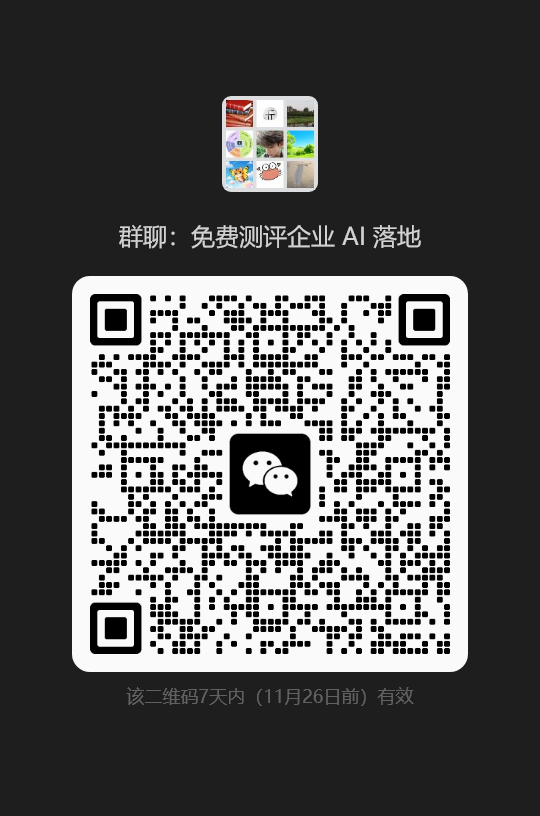
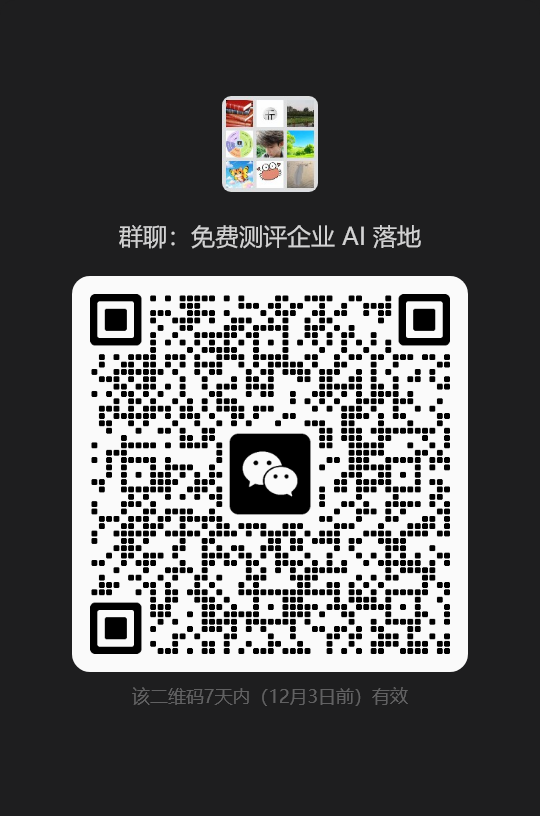
docs(release): document fullscreen CLI and refresh WeChat QR

diff --git a/docs-site/docs/.vitepress/config.js b/docs-site/docs/.vitepress/config.js
@@ -59,8 +59,8 @@ export default defineConfig({
           { text: "ChainlessChain系统", link: "/chainlesschain/overview" },
           { text: "厂家管理系统", link: "/manufacturer/overview" },
           {
-            text: "当前安装与升级（11-25）",
-            link: "/chainlesschain/cli-ide-update-2026-11-25-163",
+            text: "当前安装与升级（11-26）",
+            link: "/chainlesschain/cli-ide-update-2026-11-26-164",
           },
         ],
       },

diff --git a/docs-site-design/docs/.vitepress/config.js b/docs-site-design/docs/.vitepress/config.js
@@ -137,6 +137,10 @@ export default defineConfig({
             link: "/modules/110-agent-platform-release-boundaries",
           },
           {
+            text: "CLI .164 / 全屏终端、模型切换与授权",
+            link: "/release-runtime-update-2026-11-26-164",
+          },
+          {
             text: "CLI .163 / 读取恢复、压缩与轮次隔离",
             link: "/release-runtime-update-2026-11-25-163",
           },

diff --git a/docs-site/docs/chainlesschain/installation.md b/docs-site/docs/chainlesschain/installation.md
@@ -1,6 +1,6 @@
 # ChainlessChain 安装部署
 
-> CLI **0.166.163** 与 Open VSX **0.37.198** 已公开。最后已核验的客户端 **v5.0.3.145** 的旧安装包下载源暂不可用。 [IDE 配对与商店状态](./cli-ide-update-2026-11-25-163)
+> CLI **0.166.164** 与 Open VSX **0.37.199** 已公开。JetBrains **0.4.214** 已上传，等待 Marketplace 审核。当前已核验的公开版为 **0.4.213**，配套 CLI **0.166.163**。 客户端 **v5.0.3.145** 的旧安装包下载源暂不可用。 [IDE 配对与商店状态](./cli-ide-update-2026-11-26-164)
 
 > **2026-11-09 历史核对**：当时公开组合为 CLI **0.166.145**、Open VSX **0.37.181**、JetBrains **0.4.198**，两款 IDE 推荐 CLI .145；产品 **v5.0.3.145** 独立发行。以下 .145 文件名、系统要求与旧门禁记录保留历史范围，不证明当前旧下载源仍可用。
 
@@ -8,7 +8,7 @@
 
 先选择需要的入口：终端 Agent 安装 npm CLI；浏览器工作台由 `cc ui` 启动；IDE 插件另外安装并连接 CLI。桌面与移动客户端需要独立安装包，当前旧下载源不可用，可使用已有且已核验的本地资产或按源码开发说明构建。仅使用 CLI 和云端模型时，不需要先部署整套 Docker 后端。
 
-[系统概述](./overview) · [本轮升级指南](./cli-ide-update-2026-11-25-163) · [配置说明](./configuration)
+[系统概述](./overview) · [本轮升级指南](./cli-ide-update-2026-11-26-164) · [配置说明](./configuration)
 
 ## 核心特性
 
@@ -49,11 +49,11 @@ Android / iOS 要求按历史产品 .145 的发行源码核对，不能从源码
 ```bash
 node --version
 npm --version
-npm i -g chainlesschain@0.166.163 --registry https://registry.npmjs.org
+npm i -g chainlesschain@0.166.164 --registry https://registry.npmjs.org
 cc --version
 ```
 
-安装后应显示 `0.166.163`。若 `cc` 指向系统 C 编译器或另一个工具，使用完整命令 `chainlesschain --version`，并核对 npm 全局可执行目录是否在当前终端的 PATH 中。
+安装后应显示 `0.166.164`。若 `cc` 指向系统 C 编译器或另一个工具，使用完整命令 `chainlesschain --version`，并核对 npm 全局可执行目录是否在当前终端的 PATH 中。
 
 ### 2. 初始化 CLI
 
@@ -111,10 +111,10 @@ sudo apt install ./chainlesschain-desktop-vue_5.0.3-alpha.145_amd64.deb
 
 | IDE                | 配套插件版本          | 商店入口                                                                                      |
 | ------------------ | --------------------- | --------------------------------------------------------------------------------------------- |
-| VS Code 兼容编辑器 | Open VSX **0.37.198** | [Open VSX](https://open-vsx.org/extension/chainlesschain/chainlesschain-ide)                  |
-| JetBrains          | **0.4.212**           | [JetBrains Marketplace](https://plugins.jetbrains.com/plugin/32208-chainlesschain-ide-bridge) |
+| VS Code 兼容编辑器 | Open VSX **0.37.199** | [Open VSX](https://open-vsx.org/extension/chainlesschain/chainlesschain-ide)                  |
+| JetBrains          | **0.4.213**           | [JetBrains Marketplace](https://plugins.jetbrains.com/plugin/32208-chainlesschain-ide-bridge) |
 
-Open VSX **0.37.198** 推荐 CLI **0.166.163**，已公开的 JetBrains **0.4.212** 推荐 CLI **0.166.162**。升级后重启宿主，通过 Doctor 核对 CLI 路径。 [最新商店状态](./cli-ide-update-2026-11-25-163) · [IDE 指南](./ide-plugin)
+Open VSX **0.37.199** 推荐 CLI **0.166.164**。JetBrains **0.4.214** 已上传，等待 Marketplace 审核。当前已核验的公开版为 **0.4.213**，配套 CLI **0.166.163**。 升级后重启宿主，通过 Doctor 核对 CLI 路径。 [最新商店状态](./cli-ide-update-2026-11-26-164) · [IDE 指南](./ide-plugin)
 
 ## 移动端安装
 
@@ -176,7 +176,7 @@ CLI 默认配置在 `~/.chainlesschain/config.json`；桌面端还存在 Electro
 ### 更新到本页核对的公开组合
 
 ```bash
-npm i -g chainlesschain@0.166.163 --registry https://registry.npmjs.org
+npm i -g chainlesschain@0.166.164 --registry https://registry.npmjs.org
 chainlesschain --version
 chainlesschain doctor
 ```

diff --git a/docs-site/docs/chainlesschain/cli-ide-update-2026-11-26-164.md b/docs-site/docs/chainlesschain/cli-ide-update-2026-11-26-164.md
@@ -1,0 +1,59 @@
+# CLI 0.166.164 与 IDE 升级
+
+## 概述
+
+CLI **0.166.164** 已通过 GitHub Actions OIDC 发布到 npm。Open VSX **0.37.199** 已公开，推荐此 CLI 版本。JetBrains **0.4.214** 已上传并等待 Marketplace 审核，当前已核验的公开版为 **0.4.213**，配套 CLI **0.166.163**。 [npm 发布](https://github.com/longfa/chainlesschain/actions/runs/45781019483) · [Open VSX](https://open-vsx.org/extension/chainlesschain/chainlesschain-ide/0.37.199) · [JetBrains 发布记录](https://github.com/longfa/chainlesschain/actions/runs/45783392448)
+
+## 使用示例
+
+```sh
+npm i -g chainlesschain@0.166.164 --registry https://registry.npmjs.org
+cc --version
+cc doctor
+cc agent
+```
+
+升级 IDE 扩展后，重启宿主并用 Doctor 核对实际加载的 CLI 路径。VS Code 用户可以下载 VSIX，在扩展面板选择「从 VSIX 安装」。使用 Open VSX 的编辑器可在扩展面板更新。 [下载已核验的 0.37.199 VSIX](https://open-vsx.org/api/chainlesschain/chainlesschain-ide/0.37.199/file/chainlesschain.chainlesschain-ide-0.37.199.vsix)
+
+## 核心特性
+
+- 在支持交互的终端运行 `cc agent`。历史和模型输出显示在上方，底部输入区保持可编辑。用 Page Up 和 Page Down 翻阅输出。
+- 输入 `/` 显示命令建议，用方向键和 Enter 执行。`/status`、`/help` 和 `/interrupt` 可以在任务进行中使用。
+- 输入普通消息并按 Enter，将消息加入队列。当前轮次结束后按顺序处理。底部输入区为空时，按上方向键可取回最近一条待执行的消息并修改。
+- 输入 `/model` 浏览和搜索当前供应商的模型，或通过 `/model <模型 ID>` 直接选择。运行期间切换的模型从下一轮生效。
+
+## 系统架构
+
+终端窗口维护交互输入和滚动位置，Agent 会话管理正在运行的轮次和待处理消息。选择模型时，运行中的轮次继续使用已绑定模型，下一轮读取新选择。
+
+## 配置参考
+
+用 `cc agent --provider <供应商> --model <模型 ID>` 指定初始模型，进入会话后可用 `/model` 切换。IDE 在 **Configure LLM** 中设置供应商和初始模型，也可刷新 LK 目录。 [IDE 配置](./ide-plugin)
+
+## 性能指标
+
+模型输出时，输入区继续响应。普通消息的等待时间取决于当前轮何时结束，`/status` 等即时命令可在该轮结束之前响应。
+
+## 安全考虑
+
+新 CLI 交互会话和配套 IDE 聊天默认自动批准常规工具调用。组织托管权限、显式拒绝规则和已批准计划的范围继续生效。CLI 使用 `/permissions strict` 恢复逐项确认。配套 IDE 使用 `/normal` 切回常规确认。
+
+## 故障排查
+
+CLI **0.166.164** 的全屏模式可能无法识别单独按下的 Esc。用 `/interrupt` 中断任务，在模型选择器中可按 Enter 确认。已合入的 **0.166.165** 源码修复了关闭选择器和中断任务时的 Esc 行为，配套源码版本为 Open VSX **0.37.200** 和 JetBrains **0.4.215**。 [Esc 修复](https://github.com/longfa/chainlesschain/pull/32)
+
+## 测试覆盖
+
+CLI 发布标签 `v-npm-0-166-164` 指向源码 `80de4089bbc05773a37ff62737b85e39ab8927d3`。该提交通过 Linux、Windows 和 macOS 的 CLI CI 与 Strict Sandbox。发布工作流核验了 npm 归档和签名来源。 [CLI CI](https://github.com/longfa/chainlesschain/actions/runs/45768026105) · [Strict Sandbox](https://github.com/longfa/chainlesschain/actions/runs/45768026017) · [设计与验证](https://design.chainlesschain.com/release-runtime-update-2026-11-26-164.html)
+
+付费准入、原生客户端准入和自动晋级的状态分别为 `NOT_PAID_READY`、`NOT_ADMITTED` 和 `HOLD`。
+
+## 关键文件
+
+- [终端窗口和按键处理](https://github.com/longfa/chainlesschain/blob/206e4e72257ec9178ddb66dcc28107e0ce3c43aa/packages/cli/src/repl/terminal-window.js)
+- [交互会话、命令与轮次队列](https://github.com/longfa/chainlesschain/blob/206e4e72257ec9178ddb66dcc28107e0ce3c43aa/packages/cli/src/repl/agent-repl.js)
+
+## 相关文档
+
+- [CLI Agent 使用指南](./cli-agent)
+- [IDE 安装与配置](./ide-plugin)

diff --git a/docs-site/docs/chainlesschain/cli-agent.md b/docs-site/docs/chainlesschain/cli-agent.md
@@ -1,6 +1,10 @@
 # 代理模式 (agent)
 
-> 当前公开 CLI **0.166.142**，配套 Open VSX **0.37.178** / JetBrains **0.4.195**。新增独立授权的目标事件与显式单页历史恢复；事件恢复与 Agent 会话检查点分别处理，新原生历史需要匹配新版桌面端。客户端 v5.0.3.145 尚未完整发行。升级与边界见[升级指南](./cli-ide-update-2026-11-05-142)。
+> CLI **0.166.164** 与 Open VSX **0.37.199** 已公开。JetBrains **0.4.214** 已上传，等待 Marketplace 审核。当前已核验的公开版为 **0.4.213**，配套 CLI **0.166.163**。 [安装、按键和命令](./cli-ide-update-2026-11-26-164)
+
+## 全屏终端
+
+运行 `cc agent` 打开全屏终端。任务期间可编辑输入、排队发送消息，并用 `/model` 切换下一轮模型。输入 `/` 浏览命令，用 `/status` 查看状态，或用 `/interrupt` 中断当前轮次。新交互会话默认自动批准常规工具调用。用 `/permissions strict` 恢复逐项确认。 [终端操作](./cli-ide-update-2026-11-26-164#核心特性)
 
 <!-- docs-code-git-sync-2026-10-30 -->
 
@@ -608,7 +612,7 @@ Context Engineering 按固定顺序排列注入内容（System Prompt → Instin
 >
 > **输入排队（v0.162.40+）**：agent 回合进行中继续打字不再触发并发回合 —— 多余输入按 FIFO 排队（灰色 `queued (N)` 提示），当前回合结束后自动依次执行。
 >
-> **Esc 打断（v0.162.40+）**：回合进行中按 `Esc` 立即中止当前回合（黄色 "turn interrupted" 提示，非报错）——已产出的部分对话保留，排队中的输入照常继续执行。
+> **中断当前轮次**。CLI 0.166.164 全屏模式请用 `/interrupt`。已合入的 0.166.165 修复了单独按 Esc 时的行为。中断保留已输出的内容，队列按会话规则继续执行。
 >
 > **会话回退 `/rewind`（v0.162.40+，steering 三件套收口）**：`/rewind` 列出历史用户轮次（新→旧编号 + 预览），`/rewind <n>` 把对话截回该轮之前并把原文预填到输入行（改完重发）；空闲时**双击 Esc** 调出同一选择器。注意这只回退**对话**，文件状态回退用 `cc checkpoint restore`。
 >
@@ -630,7 +634,7 @@ Context Engineering 按固定顺序排列注入内容（System Prompt → Instin
 | `/provider <p>`        | 切换/查看提供商，支持 8 个提供商 (ollama/anthropic/openai/deepseek/dashscope/mistral/gemini/volcengine) |
 | `/clear`               | 清空对话历史                                                                                            |
 | `/compact`             | 智能压缩对话（基于重要性评分）                                                                          |
-| `/rewind [n]`          | 列出/回退到历史用户轮次（双击 Esc 同效；文件回退用 `cc checkpoint`）                                    |
+| `/rewind [n]`          | 列出/回退到历史用户轮次（文件回退用 `cc checkpoint`）                                                   |
 | `! <cmd>`              | bash 直通：直接跑 shell，输出进对话上下文                                                               |
 | `# <note>`             | 快捷记忆：追加到项目 `cc.md` 的 `## Notes`                                                              |
 | `/output-style [name]` | 列出 / 切换 [输出风格](./output-styles) 人格；`none` 清除                                               |

diff --git a/docs/design/release-runtime-update-2026-11-26-164.md b/docs/design/release-runtime-update-2026-11-26-164.md
@@ -1,0 +1,25 @@
+# 全屏交互终端、模型切换与授权
+
+公开发行的 CLI **0.166.164** 和 Open VSX **0.37.199** 对应源码 `80de4089bbc05773a37ff62737b85e39ab8927d3`。JetBrains **0.4.214** 已上传并等待审核，公开已核验版为 **0.4.213**。Esc 修复已经合入 `206e4e72257ec9178ddb66dcc28107e0ce3c43aa`，对应源码版本 CLI **0.166.165**、Open VSX **0.37.200** 和 JetBrains **0.4.215**。 [交互终端](https://github.com/longfa/chainlesschain/pull/28) · [Esc 修复](https://github.com/longfa/chainlesschain/pull/32) · [用户升级指南](https://docs.chainlesschain.com/chainlesschain/cli-ide-update-2026-11-26-164.html)
+
+## 终端与轮次
+
+`terminal-window.js` 管理屏幕绘制、底部输入、历史滚动和选择器，`agent-repl.js` 管理会话与轮次。交互 TTY 可使用全屏窗口，普通行输入兼容模式和 headless 继续使用原有入口。输出渲染与输入编辑分开，任务期间也能编辑当前输入。
+
+`/status`、`/help`、`/interrupt` 等支持即时处理的命令可在当前轮执行。普通输入进入待发送队列，当前轮结束后依次取出。中断结束当前轮后，队列仍按会话规则继续。 [终端窗口源码](https://github.com/longfa/chainlesschain/blob/206e4e72257ec9178ddb66dcc28107e0ce3c43aa/packages/cli/src/repl/terminal-window.js) · [轮次调度源码](https://github.com/longfa/chainlesschain/blob/206e4e72257ec9178ddb66dcc28107e0ce3c43aa/packages/cli/src/repl/agent-repl.js)
+
+## 模型切换
+
+`/model` 从当前供应商的模型目录呈现可搜索的选项，也接收精确模型 ID。轮次开始时绑定该轮模型。运行期间选择的新模型存为下一轮配置，待执行消息在出队开启新轮次时使用它。模型弃用提醒跟随模型选择和实际使用路径。 [模型选择回归](https://github.com/longfa/chainlesschain/pull/29)
+
+## 会话权限
+
+CLI 的新交互会话默认使用 `auto`。IDE 按会话有效模式呈现权限状态，并支持 `/normal`。CLI 用 `/permissions strict` 返回逐项确认。授权仍经过组织托管策略、显式允许或拒绝规则和计划批准范围。计划约束保留自己的权限边界。
+
+## 终端回归与发行
+
+Windows 验证通过 ConPTY 的真实子进程检查关闭行为，同时核对退出回执、退出码和 PID 回收。后续回归覆盖 Node 对单独 Esc 设置 `meta: true` 的情况，通过按键序列区分单独 Esc 和 Alt+Esc。 [Windows 退出验证](https://github.com/longfa/chainlesschain/pull/31) · [Esc 测试](https://github.com/longfa/chainlesschain/pull/32)
+
+CLI **0.166.164** 的相同源码提交通过 Linux、Windows 和 macOS 的 CLI CI 和 Strict Sandbox，npm 通过 GitHub Actions OIDC 发布。Open VSX 校验了公开 VSIX 与标签制品的一致性。JetBrains 上传在三平台宿主、构建和兼容性检查通过后执行。 [CLI CI](https://github.com/longfa/chainlesschain/actions/runs/45768026105) · [Strict Sandbox](https://github.com/longfa/chainlesschain/actions/runs/45768026017) · [npm](https://github.com/longfa/chainlesschain/actions/runs/45781019483) · [Open VSX](https://github.com/longfa/chainlesschain/actions/runs/45783391508) · [JetBrains](https://github.com/longfa/chainlesschain/actions/runs/45783392448)
+
+付费准入为 `NOT_PAID_READY`，原生客户端准入为 `NOT_ADMITTED`，自动晋级为 `HOLD`。

diff --git a/packages/cli/README.md b/packages/cli/README.md
@@ -8,7 +8,7 @@ The candidate restores the standalone Esc key for closing the model picker and i
 
 CLI **0.166.164** is publicly available from source `80de4089bbc05773a37ff62737b85e39ab8927d3`. GitHub Actions verified CLI CI and Strict Sandbox on Linux, Windows, and macOS and published the npm archive through OIDC. Install `npm i -g chainlesschain@0.166.164 --registry https://registry.npmjs.org`, then run `cc --version` and `cc doctor`. [npm publication](https://github.com/longfa/chainlesschain/actions/runs/45781019483)
 
-The fullscreen Agent adds a fixed input area, live slash commands, queued follow-ups, and a searchable `/model` picker. New interactive sessions automatically approve routine tool use subject to managed policy and explicit rules. This CLI pairs with Open VSX **0.37.199** and JetBrains **0.4.214**. [Open VSX publication](https://github.com/longfa/chainlesschain/actions/runs/45783391508) · [JetBrains publication](https://github.com/longfa/chainlesschain/actions/runs/45783392448)
+The fullscreen Agent adds a fixed input area, live slash commands, queued follow-ups, and a searchable `/model` picker. New interactive sessions automatically approve routine tool use subject to managed policy and explicit rules. Open VSX **0.37.199** is public and recommends this CLI. JetBrains **0.4.214** has been uploaded and is awaiting Marketplace review. The verified public version is **0.4.213**, paired with CLI **0.166.163**. Use `/permissions strict` for per-tool prompts and `/interrupt` if the terminal misses Esc. [User guide](https://docs.chainlesschain.com/chainlesschain/cli-ide-update-2026-11-26-164.html) [Open VSX publication](https://github.com/longfa/chainlesschain/actions/runs/45783391508) · [JetBrains publication](https://github.com/longfa/chainlesschain/actions/runs/45783392448)
 
 Release limits are `NOT_PAID_READY`, `NOT_ADMITTED`, and `HOLD` for paid readiness, native admission, and automatic promotion.
 
@@ -18,7 +18,7 @@ CLI **0.166.163** is available on npm from source `b06b3bfe0f1bf91d40617f3a0c83d
 
 This release improves file-search diagnostics, retries a timed-out Windows credential read once, and asks coding agents to verify workspace changes before reporting delivery. File reads recover when the requested page reaches the model. Canonical compaction can shorten a local handoff while retaining file read positions. Chat Completions stream errors fail the turn, and interrupting a turn closes its pending approvals.
 
-Open VSX **0.37.198** is public and recommends CLI `0.166.163`. JetBrains **0.4.213** pairs with the same CLI and its publication workflow is in progress. [Open VSX](https://open-vsx.org/extension/chainlesschain/chainlesschain-ide) · [JetBrains workflow](https://github.com/longfa/chainlesschain/actions/runs/45537935036)
+Open VSX **0.37.198** is public and recommends CLI `0.166.163`. JetBrains **0.4.213** is publicly downloadable and pairs with the same CLI. [Open VSX](https://open-vsx.org/extension/chainlesschain/chainlesschain-ide) · [JetBrains workflow](https://github.com/longfa/chainlesschain/actions/runs/45537935036)
 
 The release limits are `NOT_PAID_READY` for paid readiness, `NOT_ADMITTED` for native admission, and `HOLD` for automatic promotion.
 

diff --git a/docs-site/docs/index.md b/docs-site/docs/index.md
@@ -4,7 +4,7 @@ layout: home
 hero:
   name: ChainlessChain
   text: 去中心化个人 AI 管理平台
-  tagline: "CLI 0.166.163 已公开"
+  tagline: "CLI 0.166.164 已公开"
   image:
     src: /logo.png
     alt: ChainlessChain Logo
@@ -74,7 +74,7 @@ features:
     link: /chainlesschain/desktop-model-governance
   - icon: 🧑💻
     title: CLI 和 IDE 配套版本
-    details: "Open VSX 0.37.198 推荐 CLI 0.166.163，可按需刷新 LK 模型目录。"
+    details: "Open VSX 0.37.199 推荐 CLI 0.166.164。交互终端支持运行期间输入和用 /model 切换下一轮模型。"
     link: /chainlesschain/cli-ide-update-2026-11-23-161
   - icon: 🔐
     title: 安全优先
@@ -92,7 +92,7 @@ features:
 欢迎开发者加入 **「免费测评企业 AI 落地」** 微信交流群，交流 ChainlessChain 的使用、二次开发、插件/IDE 接入、问题排查和企业 AI 落地实践。请扫码入群：
 
 <div style="display:flex;align-items:center;gap:24px;flex-wrap:wrap;margin:24px 0 32px;padding:20px;border:1px solid var(--vp-c-divider);border-radius:12px;background:var(--vp-c-bg-soft)">
-  <img src="/wechat-group-qr.png" alt="微信群：免费测评企业 AI 落地" width="260" />
+  <img src="/wechat-group-qr.png?v=20261126" alt="微信群：免费测评企业 AI 落地" width="260" />
   <div>
     <p><strong>群聊：免费测评企业 AI 落地</strong></p>
     <p>二维码有效期以微信页面显示为准。提问时请附版本、系统环境、复现步骤和完整日志。</p>
@@ -100,9 +100,9 @@ features:
   </div>
 </div>
 
-## 当前公开版本（2026-11-25）
+## 当前公开版本（2026-11-26）
 
-CLI **0.166.163** 已通过 npm 公开下载、归档完整性和签名来源校验。运行 `npm i -g chainlesschain@0.166.163 --registry https://registry.npmjs.org` 安装，重启宿主后运行 `cc --version` 和 `cc doctor`。 [升级指南与商店状态](/chainlesschain/cli-ide-update-2026-11-25-163)
+CLI **0.166.164** 与 Open VSX **0.37.199** 已公开。JetBrains **0.4.214** 已上传，等待 Marketplace 审核。当前已核验的公开版为 **0.4.213**，配套 CLI **0.166.163**。 运行 `npm i -g chainlesschain@0.166.164 --registry https://registry.npmjs.org` 安装，再用 `cc --version` 与 `cc doctor` 核对。 [升级指南与商店状态](/chainlesschain/cli-ide-update-2026-11-26-164)
 
 ## 历史发行与源码核对（2026-11-21）
 

diff --git a/README_EN.md b/README_EN.md
@@ -1,10 +1,10 @@
 # ChainlessChain - Personal Mobile AI Management System Based on USB Key and SIMKey
 
-## Current public release (2026-11-25)
+## Current public release (2026-11-26)
 
-CLI **0.166.163** is public on npm. GitHub Actions published it through OIDC and verified the public archive and signed provenance. Install `npm i -g chainlesschain@0.166.163 --registry https://registry.npmjs.org`, restart the host, and run `cc --version` and `cc doctor`. [npm publication evidence](https://github.com/longfa/chainlesschain/actions/runs/45535193598)
+CLI **0.166.164** is public on npm with verified GitHub Actions OIDC provenance. Install with `npm i -g chainlesschain@0.166.164 --registry https://registry.npmjs.org`, then run `cc --version` and `cc doctor`. [npm publication](https://github.com/longfa/chainlesschain/actions/runs/45781019483)
 
-This release restores file-read delivery, bounds oversized compaction handoffs, and closes pending approvals when a turn is interrupted. Chat Completions stream errors fail the current turn. The paired Open VSX **0.37.198** is public. JetBrains **0.4.213** passed its three-platform host matrix and is in the publication workflow. [Open VSX](https://open-vsx.org/extension/chainlesschain/chainlesschain-ide) · [Installation and upgrades](https://docs.chainlesschain.com/chainlesschain/cli-ide-update-2026-11-25-163.html) · [Design and verification](https://design.chainlesschain.com/release-runtime-update-2026-11-25-163.html)
+Run `cc agent` to open the fullscreen terminal. Keep typing during a turn, queue follow-ups, and use `/model` to select the next turn's model. New interactive sessions automatically approve routine tool use. Open VSX **0.37.199** pairs with CLI **0.166.164**. JetBrains **0.4.214** has been uploaded and is awaiting Marketplace review. The verified public version is **0.4.213**, paired with CLI **0.166.163**. The Esc fix has merged for CLI **0.166.165**. [Upgrade guide](https://docs.chainlesschain.com/chainlesschain/cli-ide-update-2026-11-26-164.html) · [Runtime design](https://design.chainlesschain.com/release-runtime-update-2026-11-26-164.html) · [Open VSX](https://open-vsx.org/extension/chainlesschain/chainlesschain-ide/0.37.199) · [Public JetBrains download](https://plugins.jetbrains.com/plugin/download?rel=true&updateId=1228250)
 
 ## Public release (2026-11-24)
 

diff --git a/README.md b/README.md
@@ -1,10 +1,10 @@
 # ChainlessChain - 基于U盘和SIMKey的个人移动AI管理系统
 
-## 当前公开版本（2026-11-25）
+## 当前公开版本（2026-11-26）
 
-CLI **0.166.163** 已通过 GitHub Actions OIDC 发布到 npm，并核验公开归档和签名来源。运行 `npm i -g chainlesschain@0.166.163 --registry https://registry.npmjs.org` 安装，重启宿主后运行 `cc --version` 和 `cc doctor`。 [npm 发布证据](https://github.com/longfa/chainlesschain/actions/runs/45535193598)
+CLI **0.166.164** 已通过 GitHub Actions OIDC 发布，npm 归档和签名来源已核验。运行 `npm i -g chainlesschain@0.166.164 --registry https://registry.npmjs.org` 安装，再用 `cc --version` 和 `cc doctor` 检查。 [npm 发布记录](https://github.com/longfa/chainlesschain/actions/runs/45781019483)
 
-本版修复文件读取恢复、超预算的压缩交接和中断后遗留的待审批项。Chat Completions 流出错时会结束当前轮次。配套 Open VSX **0.37.198** 已公开，JetBrains **0.4.213** 已通过三平台实机矩阵，正在发布。 [Open VSX](https://open-vsx.org/extension/chainlesschain/chainlesschain-ide) · [安装与升级](https://docs.chainlesschain.com/chainlesschain/cli-ide-update-2026-11-25-163.html) · [设计与验证](https://design.chainlesschain.com/release-runtime-update-2026-11-25-163.html)
+运行 `cc agent` 打开全屏终端。任务期间可继续输入、排队发送消息和使用 `/model` 切换下一轮的模型。新交互会话默认自动批准常规工具调用。 Open VSX **0.37.199** 配套 CLI **0.166.164**。JetBrains **0.4.214** 已上传，等待 Marketplace 审核。当前已核验的公开版为 **0.4.213**，配套 CLI **0.166.163**。 CLI **0.166.165** 的 Esc 修复已合入源码。 [安装与升级](https://docs.chainlesschain.com/chainlesschain/cli-ide-update-2026-11-26-164.html) · [运行时设计](https://design.chainlesschain.com/release-runtime-update-2026-11-26-164.html) · [Open VSX](https://open-vsx.org/extension/chainlesschain/chainlesschain-ide/0.37.199) · [JetBrains 公开版](https://plugins.jetbrains.com/plugin/download?rel=true&updateId=1228250)
 
 ## 2026-11-24 公开版本
 

diff --git a/docs-site-design/docs/index.md b/docs-site-design/docs/index.md
@@ -4,7 +4,7 @@ layout: home
 hero:
   name: ChainlessChain
   text: 系统设计文档
-  tagline: "CLI 0.166.163 与 Open VSX 0.37.198 已公开"
+  tagline: "CLI 0.166.164 与 Open VSX 0.37.199 已公开"
   image:
     src: /logo.png
     alt: ChainlessChain Logo
@@ -86,7 +86,7 @@ features:
 欢迎开发者加入 **「免费测评企业 AI 落地」** 微信交流群，交流系统架构、模块设计、插件/IDE 接入、问题排查和企业 AI 落地实践。请扫码入群：
 
 <div style="display:flex;align-items:center;gap:24px;flex-wrap:wrap;margin:24px 0 32px;padding:20px;border:1px solid var(--vp-c-divider);border-radius:12px;background:var(--vp-c-bg-soft)">
-  <img src="/wechat-group-qr.png" alt="微信群：免费测评企业 AI 落地" width="260" />
+  <img src="/wechat-group-qr.png?v=20261126" alt="微信群：免费测评企业 AI 落地" width="260" />
   <div>
     <p><strong>群聊：免费测评企业 AI 落地</strong></p>
     <p>二维码有效期以微信页面显示为准。架构问题请尽量附模块、版本、复现步骤和相关日志。</p>
@@ -94,9 +94,9 @@ features:
   </div>
 </div>
 
-## 当前运行时与发行（2026-11-25）
+## 当前运行时与发行（2026-11-26）
 
-CLI **0.166.163** 与配套 Open VSX **0.37.198** 已公开核验。JetBrains **0.4.213** 已通过三平台实机矩阵，正在发布。 [读取恢复、压缩与轮次隔离](/release-runtime-update-2026-11-25-163) · [上轮会话恢复与任务生命周期](/release-runtime-update-2026-11-24-162)
+CLI **0.166.164** 与 Open VSX **0.37.199** 已公开。JetBrains **0.4.214** 已上传，等待 Marketplace 审核。当前已核验的公开版为 **0.4.213**，配套 CLI **0.166.163**。 CLI **0.166.165** 已合入 Esc 修复。 [全屏终端、模型切换与授权](/release-runtime-update-2026-11-26-164) · [读取恢复、压缩与轮次隔离](/release-runtime-update-2026-11-25-163)
 
 ## 历史发行与源码核对（2026-11-21）
 

diff --git a/packages/vscode-extension/README.md b/packages/vscode-extension/README.md
@@ -8,6 +8,23 @@ Version **0.37.200** recommends CLI **0.166.165**. New chats automatically appro
 
 ## Current release
 
+<!-- release164-status -->
+
+Open VSX version **0.37.199** pairs with public CLI `0.166.164`.
+Immutable tag `ide-vscode-v0.37.199` identifies this pairing.
+
+| Component                 | Current public status                                       |
+| ------------------------- | ----------------------------------------------------------- |
+| VS Code extension         | **0.37.199**; verified public Open VSX release              |
+| Recommended CLI           | **`chainlesschain@0.166.164`**; verified public npm package |
+| Base bridge compatibility | `cc >= 0.162.190`; newer features require the paired CLI    |
+
+The public VSIX matches the tagged build. [Open VSX publication](https://github.com/longfa/chainlesschain/actions/runs/45783391508) · [Download the verified VSIX](https://open-vsx.org/api/chainlesschain/chainlesschain-ide/0.37.199/file/chainlesschain.chainlesschain-ide-0.37.199.vsix)
+
+Using `@0.166.164` selects this pairing. Install with `npm i -g chainlesschain@0.166.164 --registry https://registry.npmjs.org`, restart the host, and run `cc --version` and `cc doctor`. New chats automatically approve routine tool requests. Use `/normal` for ordinary confirmation prompts.
+
+### Previous verified release (0.37.198)
+
 <!-- release163-status -->
 
 Open VSX version **0.37.198** pairs with public CLI `0.166.163`.
